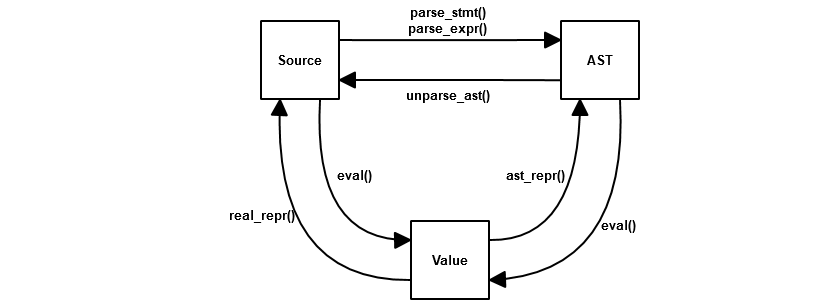
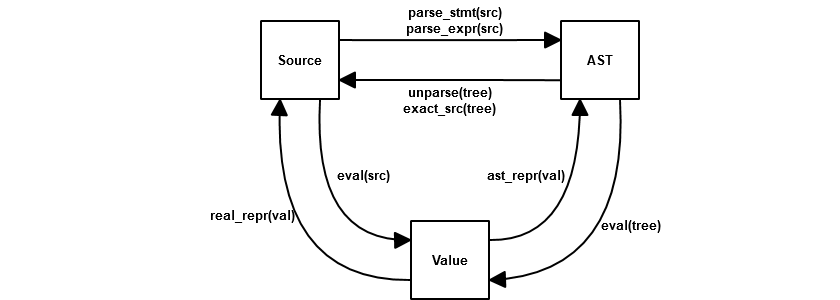
unparse_ast -> unparse a few more renames and tidying ups tweak readme lots

diff --git a/macropy/core/test/quotes.py b/macropy/core/test/quotes.py
@@ -12,11 +12,11 @@ class Tests(unittest.TestCase):
         data1 = q[1 + u[a + b]]
         data2 = q[1 + (a + b)]
 
-        assert eval(unparse_ast(data1)) == 13
-        assert eval(unparse_ast(data2)) == 13
+        assert eval(unparse(data1)) == 13
+        assert eval(unparse(data2)) == 13
         a = 1
-        assert eval(unparse_ast(data1)) == 13
-        assert eval(unparse_ast(data2)) == 4
+        assert eval(unparse(data1)) == 13
+        assert eval(unparse(data2)) == 4
 
 
     def test_structured(self):
@@ -25,9 +25,9 @@ class Tests(unittest.TestCase):
         b = ["wtf", "bbq"]
         data1 = q[[x for x in u[a + b]]]
 
-        assert(eval(unparse_ast(data1)) == [1, 2, "omg", "wtf", "bbq"])
+        assert(eval(unparse(data1)) == [1, 2, "omg", "wtf", "bbq"])
         b = []
-        assert(eval(unparse_ast(data1)) == [1, 2, "omg", "wtf", "bbq"])
+        assert(eval(unparse(data1)) == [1, 2, "omg", "wtf", "bbq"])
 
 
     def test_quote_unquote(self):
@@ -35,10 +35,10 @@ class Tests(unittest.TestCase):
         x = 1
         y = 2
         a = q[u[x + y]]
-        assert(eval(unparse_ast(a)) == 3)
+        assert(eval(unparse(a)) == 3)
         x = 0
         y = 0
-        assert(eval(unparse_ast(a)) == 3)
+        assert(eval(unparse(a)) == 3)
 
 
     def test_unquote_name(self):
@@ -46,7 +46,7 @@ class Tests(unittest.TestCase):
         x = 1
         y = q[name[n] + name[n]]
 
-        assert(eval(unparse_ast(y)) == 2)
+        assert(eval(unparse(y)) == 2)
 
     def test_quote_unquote_ast(self):
 
@@ -54,9 +54,9 @@ class Tests(unittest.TestCase):
         b = q[ast[a] + z]
 
         x, y, z = 1, 2, 3
-        assert(eval(unparse_ast(b)) == 6)
+        assert(eval(unparse(b)) == 6)
         x, y, z = 1, 3, 9
-        assert(eval(unparse_ast(b)) == 13)
+        assert(eval(unparse(b)) == 13)
 
 
     def test_quote_unquote_block(self):
@@ -69,9 +69,9 @@ class Tests(unittest.TestCase):
             c.append(u[a])
             c.extend(u[b])
 
-        exec(unparse_ast(code))
+        exec(unparse(code))
         assert(c == [10, 10, 'a', 'b', 'c'])
         c = []
         a, b = None, None
-        exec(unparse_ast(code))
+        exec(unparse(code))
         assert(c == [None, 10, 'a', 'b', 'c'])

diff --git a/macropy/core/macros.py b/macropy/core/macros.py
@@ -123,7 +123,7 @@ def expand_ast(tree, src, bindings, hygienic_aliases):
     positions = Lazy(lambda: indexer.collect(tree))
     line_lengths = Lazy(lambda: map(len, src.split("\n")))
     indexes = Lazy(lambda: distinct([linear_index(line_lengths(), l, c) for (l, c) in positions()] + [len(src)]))
-    symbols = Lazy(lambda: _gen_syms(tree))
+    symbols = Lazy(lambda: gen_sym(tree))
 
 
     allnames = [(m, name, asname) for m, names in bindings for name, asname in names]
@@ -150,7 +150,7 @@ def expand_ast(tree, src, bindings, hygienic_aliases):
                 args=args,
                 gen_sym=lambda: symbols().next(),
 
-                exact_src=lambda t: src_for(t, src, indexes, line_lengths),
+                exact_src=lambda t: exact_src(t, src, indexes, line_lengths),
                 expand_macros=lambda t: expand_ast(t, src, bindings, hygienic_aliases),
                 hygienic_alias=hygienic_aliases[the_module],
                 **kwargs
@@ -266,7 +266,7 @@ class MacroFinder(object):
         except Exception, e:
             pass
 
-def _gen_syms(tree):
+def gen_sym(tree):
     """Create a generator that creates symbols which are not used in the given
     `tree`. This means they will be hygienic, i.e. it guarantees that they will
     not cause accidental shadowing, as long as the scope of the new symbol is
@@ -293,7 +293,7 @@ def detect_macros(tree):
 
 
     hygienic_aliases = {}
-    symbols = Lazy(lambda: _gen_syms(tree))
+    symbols = Lazy(lambda: gen_sym(tree))
     for stmt in tree.body:
         if isinstance(stmt, ImportFrom) \
                 and stmt.names[0].name == 'macros' \

diff --git a/macropy/core/__init__.py b/macropy/core/__init__.py
@@ -15,7 +15,7 @@ This map maps out how to convert from form to form:
       |            |----------->|            |
       |   Source   |            |    AST     |
       |____________|<-----------|____________|
-          ^     |   unparse_ast   |        ^
+          ^     |   unparse   |        ^
           |     |                 | eval   | ast_repr
           |     |                 |        |
 real_repr |     |    eval        _v________|_
@@ -26,7 +26,7 @@ real_repr |     |    eval        _v________|_
 import ast
 import sys
 
-__all__ = ['Literal', 'ast_repr', 'parse_expr', 'parse_stmt', 'real_repr', 'unparse_ast']
+__all__ = ['Literal', 'ast_repr', 'parse_expr', 'parse_stmt', 'real_repr', 'unparse']
 
 class Literal(object):
     """Used to wrap sections of an AST which must remain intact when
@@ -35,7 +35,7 @@ class Literal(object):
         self.body = body
 
     def __repr__(self):
-        return unparse_ast(self.body)
+        return unparse(self.body)
 
 
 
@@ -247,7 +247,7 @@ def jmap(s, f, *l):
 def tabs(i): 
     return "\n" + "    "*i
 
-def unparse_ast(tree):
+def unparse(tree):
     """Converts an AST back into the source code from whence it came!"""
     return trec[tree.__class__](tree, 0)
 

diff --git a/macropy/core/misc.py b/macropy/core/misc.py
@@ -72,7 +72,7 @@ def linear_index(line_lengths, lineno, col_offset):
 @Walker
 def indexer(tree, collect, **kw):
     try:
-        unparse_ast(tree)
+        unparse(tree)
         collect((tree.lineno, tree.col_offset))
     except Exception, e:
         pass
@@ -84,7 +84,7 @@ _transforms = {
     DictComp: "{%s}"
 }
 
-def src_for(tree, src, indexes, line_lengths):
+def exact_src(tree, src, indexes, line_lengths):
     all_child_pos = sorted(indexer.collect(tree))
     start_index = linear_index(line_lengths(), *all_child_pos[0])
 
@@ -111,10 +111,11 @@ def src_for(tree, src, indexes, line_lengths):
                 x = prelim
             import ast
             parsed = ast.parse(x)
-            if unparse_ast(parsed).strip() == unparse_ast(tree).strip():
+            if unparse(parsed).strip() == unparse(tree).strip():
                 return prelim
 
         except SyntaxError as e:
             pass
-    raise Exception("Can't find working source")
-
+    raise ExactSrcException()
+class ExactSrcException(Exception):
+    pass

diff --git a/macropy/core/test/walkers.py b/macropy/core/test/walkers.py
@@ -19,7 +19,7 @@ class Tests(unittest.TestCase):
             if type(tree) is BinOp and type(tree.op) is Add:
                 return BinOp(tree.left, Mult(), tree.right)
 
-        assert unparse_ast(transform.recurse(tree)) == unparse_ast(goal)
+        assert unparse(transform.recurse(tree)) == unparse(goal)
 
     def test_collect(self):
 
@@ -50,7 +50,7 @@ class Tests(unittest.TestCase):
 
         new_tree = deepen.recurse(tree, ctx=0)
         goal = parse_expr('(2 + (4 + (6 + (8 + 9))))')
-        assert unparse_ast(new_tree) == unparse_ast(goal)
+        assert unparse(new_tree) == unparse(goal)
 
     def test_stop(self):
         tree = parse_expr('(1 + 2 * 3 + 4 * (5 + 6) + 7)')
@@ -64,4 +64,4 @@ class Tests(unittest.TestCase):
                 stop()
 
         new_tree = stopper.recurse(tree)
-        assert unparse_ast(goal) == unparse_ast(new_tree)
+        assert unparse(goal) == unparse(new_tree)

diff --git a/macropy/core/test/macros/basic_decorator_macro.py b/macropy/core/test/macros/basic_decorator_macro.py
@@ -4,12 +4,12 @@ macros = Macros()
 
 @macros.decorator
 def my_macro(tree, **kw):
-    assert unparse_ast(tree).strip() == "\n".join([
+    assert unparse(tree).strip() == "\n".join([
     "@inner",
     "def run():",
     "    x = 10",
     "    x = (x + 1)",
-    "    return x"]), unparse_ast(tree)
+    "    return x"]), unparse(tree)
 
     b = tree.body
     tree.body = [b[0], b[1], b[1], b[1], b[1], b[2]]
@@ -17,13 +17,13 @@ def my_macro(tree, **kw):
 
 @macros.decorator
 def my_macro2(tree, **kw):
-    assert unparse_ast(tree).strip() == "\n".join([
+    assert unparse(tree).strip() == "\n".join([
     "@middle",
     "@my_macro",
     "@inner",
     "def run():",
     "    x = 10",
     "    x = (x + 1)",
-    "    return x"]), unparse_ast(tree)
+    "    return x"]), unparse(tree)
 
     return tree

diff --git a/macropy/core/hquotes.py b/macropy/core/hquotes.py
@@ -2,7 +2,7 @@
 than their expansion scope."""
 from macropy.core.macros import *
 
-from macropy.core.quotes import macros, q, _unquote_search, u, ast, ast_list, name
+from macropy.core.quotes import macros, q, unquote_search, u, ast, ast_list, name
 
 
 macros = Macros()
@@ -14,7 +14,7 @@ class unhygienic():
 
 @macros.block
 def hq(tree, hygienic_alias, target, **kw):
-    tree = _unquote_search.recurse(tree)
+    tree = unquote_search.recurse(tree)
     tree = hygienate(tree, hygienic_alias)
     tree = ast_repr(tree)
 
@@ -23,7 +23,7 @@ def hq(tree, hygienic_alias, target, **kw):
 
 @macros.expr
 def hq(tree, hygienic_alias, **kw):
-    tree = _unquote_search.recurse(tree)
+    tree = unquote_search.recurse(tree)
     tree = hygienate(tree, hygienic_alias)
     tree = ast_repr(tree)
     return tree

diff --git a/macropy/tracing.py b/macropy/tracing.py
@@ -28,7 +28,7 @@ def log(tree, exact_src,  hygienic_alias, **kw):
 @macros.expr
 def show_expanded(tree, expand_macros,  hygienic_alias, **kw):
     expanded_tree = expand_macros(tree)
-    new_tree = hq[wrap_simple(unhygienic[log], u[unparse_ast(expanded_tree)], ast[expanded_tree])]
+    new_tree = hq[wrap_simple(unhygienic[log], u[unparse(expanded_tree)], ast[expanded_tree])]
     return new_tree
 
 
@@ -39,7 +39,7 @@ def show_expanded(tree, expand_macros, **kw):
         new_stmt = expand_macros(stmt)
 
         with hq as code:
-            unhygienic[log](u[unparse_ast(new_stmt)])
+            unhygienic[log](u[unparse(new_stmt)])
         new_tree.append(code)
         new_tree.append(new_stmt)
 

diff --git a/macropy/core/test/macros/argument_macros.py b/macropy/core/test/macros/argument_macros.py
@@ -5,15 +5,15 @@ macros = Macros()
 @macros.expr
 def expr_macro(tree, args, **kw):
 
-    assert map(unparse_ast, args) == ["(1 + math.sqrt(5))"], unparse_ast(args)
+    assert map(unparse, args) == ["(1 + math.sqrt(5))"], unparse(args)
     return tree
 
 @macros.block
 def block_macro(tree, args, **kw):
-    assert map(unparse_ast, args) == ["(1 + math.sqrt(5))"], unparse_ast(args)
+    assert map(unparse, args) == ["(1 + math.sqrt(5))"], unparse(args)
     return tree
 
 @macros.decorator
 def decorator_macro(tree, args, **kw):
-    assert map(unparse_ast, args) == ["(1 + math.sqrt(5))"], unparse_ast(args)
+    assert map(unparse, args) == ["(1 + math.sqrt(5))"], unparse(args)
     return tree

diff --git a/macropy/core/quotes.py b/macropy/core/quotes.py
@@ -29,7 +29,7 @@ class ast_list():
 
 
 @Walker
-def _unquote_search(tree, **kw):
+def unquote_search(tree, **kw):
 
     res = check_annotated(tree)
     if res:
@@ -47,13 +47,13 @@ def _unquote_search(tree, **kw):
 
 @macros.expr
 def q(tree, **kw):
-    tree = _unquote_search.recurse(tree)
+    tree = unquote_search.recurse(tree)
     tree = ast_repr(tree)
     return tree
 
 @macros.block
 def q(tree, target, **kw):
-    body = _unquote_search.recurse(tree)
+    body = unquote_search.recurse(tree)
     new_body = ast_repr(body)
     return [Assign([target], new_body)]
 

diff --git a/macropy/experimental/peg.py b/macropy/experimental/peg.py
@@ -33,7 +33,9 @@ def peg(tree, gen_sym, hygienic_alias, **kw):
     for statement in tree:
         if type(statement) is Assign:
             new_tree = process(statement.value, potential_targets, gen_sym, hygienic_alias)
-            statement.value = hq[Parser.Named(lambda: ast[new_tree], [u[statement.targets[0].id]])]
+            statement.value = hq[
+                Parser.Named(lambda: ast[new_tree], [u[statement.targets[0].id]])
+            ]
 
     return tree
 

diff --git a/macropy/case_classes.py b/macropy/case_classes.py
@@ -88,7 +88,7 @@ def case(tree, gen_sym, hygienic_alias, **kw):
                 a_old = a[0]
                 a_old.targets[0].attr = statement.name
 
-                a_new = parse_stmt(unparse_ast(a[0]))[0]
+                a_new = parse_stmt(unparse(a[0]))[0]
                 outer.append(a_new)
             elif type(statement) is FunctionDef:
                 new_body.append(statement)
